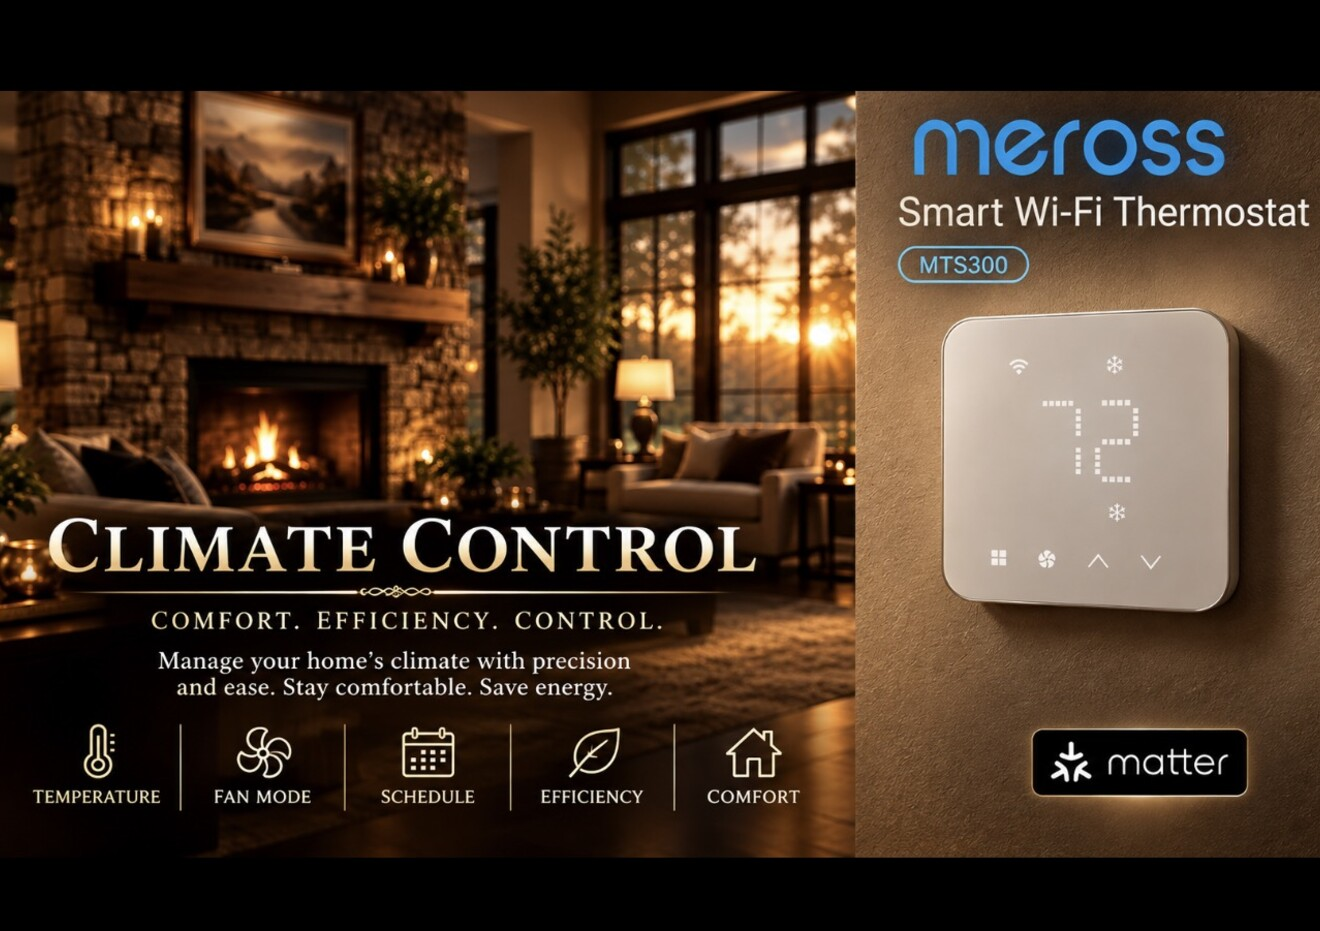
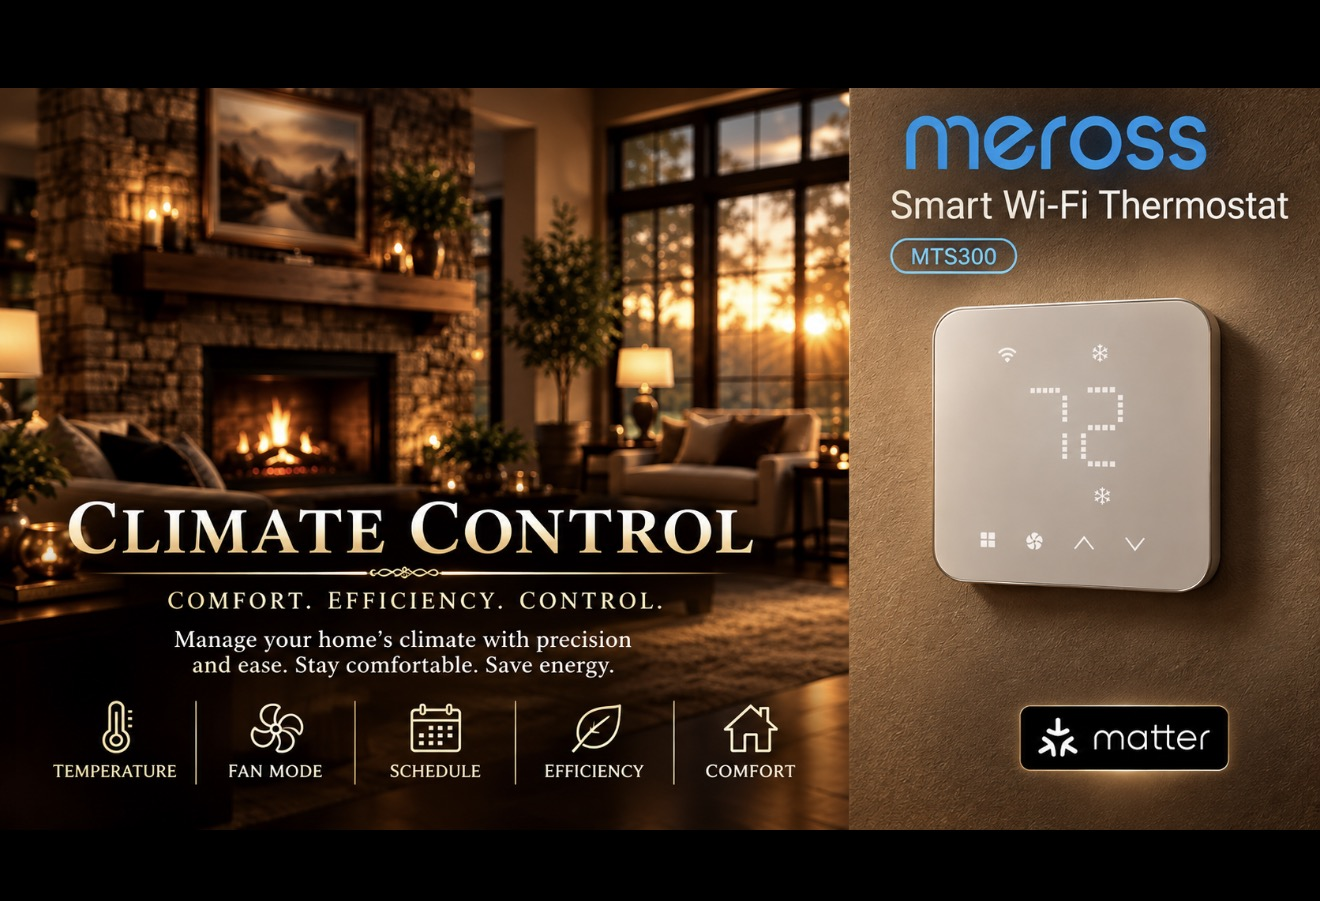
hero-lux.jpg: serve Jeff's original file untouched for max clarity
Jeff, 7:23 AM CT: 'That picture is clearer' - he was comparing his own
source image to what was deployed. My earlier fit step re-encoded at
quality 90 and upscaled 1320x901 -> 1320x931 to fill the frame, which
softened it.

Now the original file (1320x901, 263 KB) is served byte-for-byte with no
ImageMagick re-encode. The card's .lux-photo-wrap is aspect-ratio
1320/931 with object-fit:cover, so the browser scales it at display time
(sharper than a baked-in upscale) and the 30 px height difference is
handled by the cover crop. Maximum clarity, no generational JPEG loss.

Version tag c -> d, SW v158 -> v159. Lint + smoke clean.

Claude-Session: https://claude.ai/code/session_0153TsqC5UqGkC4hWpo12BaK

diff --git a/index.html b/index.html
@@ -2457,7 +2457,7 @@ html.light .emg-amber {background:rgba(146,64,14,.06); border-color:rgba(146,64,
 
       <div style="margin:-18px -18px 14px -18px">
         <div class="lux-photo-wrap">
-          <img src="./images/hero-lux.jpg?v=20261027c" alt="Master bedroom thermostat" loading="lazy">
+          <img src="./images/hero-lux.jpg?v=20261027d" alt="Master bedroom thermostat" loading="lazy">
 
           <div class="lux-fp-panel">
             <div class="lux-fp-top">
@@ -2563,7 +2563,7 @@ html.light .emg-amber {background:rgba(146,64,14,.06); border-color:rgba(146,64,
              replacing the photo's fake weather numbers. -->
         <div style="margin:-18px -18px 14px -18px">
           <div class="lux-photo-wrap">
-            <img src="./images/hero-lux.jpg?v=20261027c" alt="LUX Thermostat" loading="lazy">
+            <img src="./images/hero-lux.jpg?v=20261027d" alt="LUX Thermostat" loading="lazy">
 
             <div class="lux-fp-panel">
               <div class="lux-fp-top">

diff --git a/service-worker.js b/service-worker.js
@@ -1,4 +1,4 @@
-const CACHE_NAME = "hcc-v158";
+const CACHE_NAME = "hcc-v159";
 const CRITICAL_ASSETS = [
   "./",
   "./index.html",
@@ -13,7 +13,7 @@ const OPTIONAL_ASSETS = [
   "./images/hero-guardian.jpg",
   "./images/hero-car.jpg",
   "./images/hero-cameras.jpg",
-  "./images/hero-lux.jpg?v=20261027c",
+  "./images/hero-lux.jpg?v=20261027d",
   "./images/white-house-dispatch.jpg",
   "./images/splash-portrait.jpg",
   "./images/splash-landscape.jpg"
